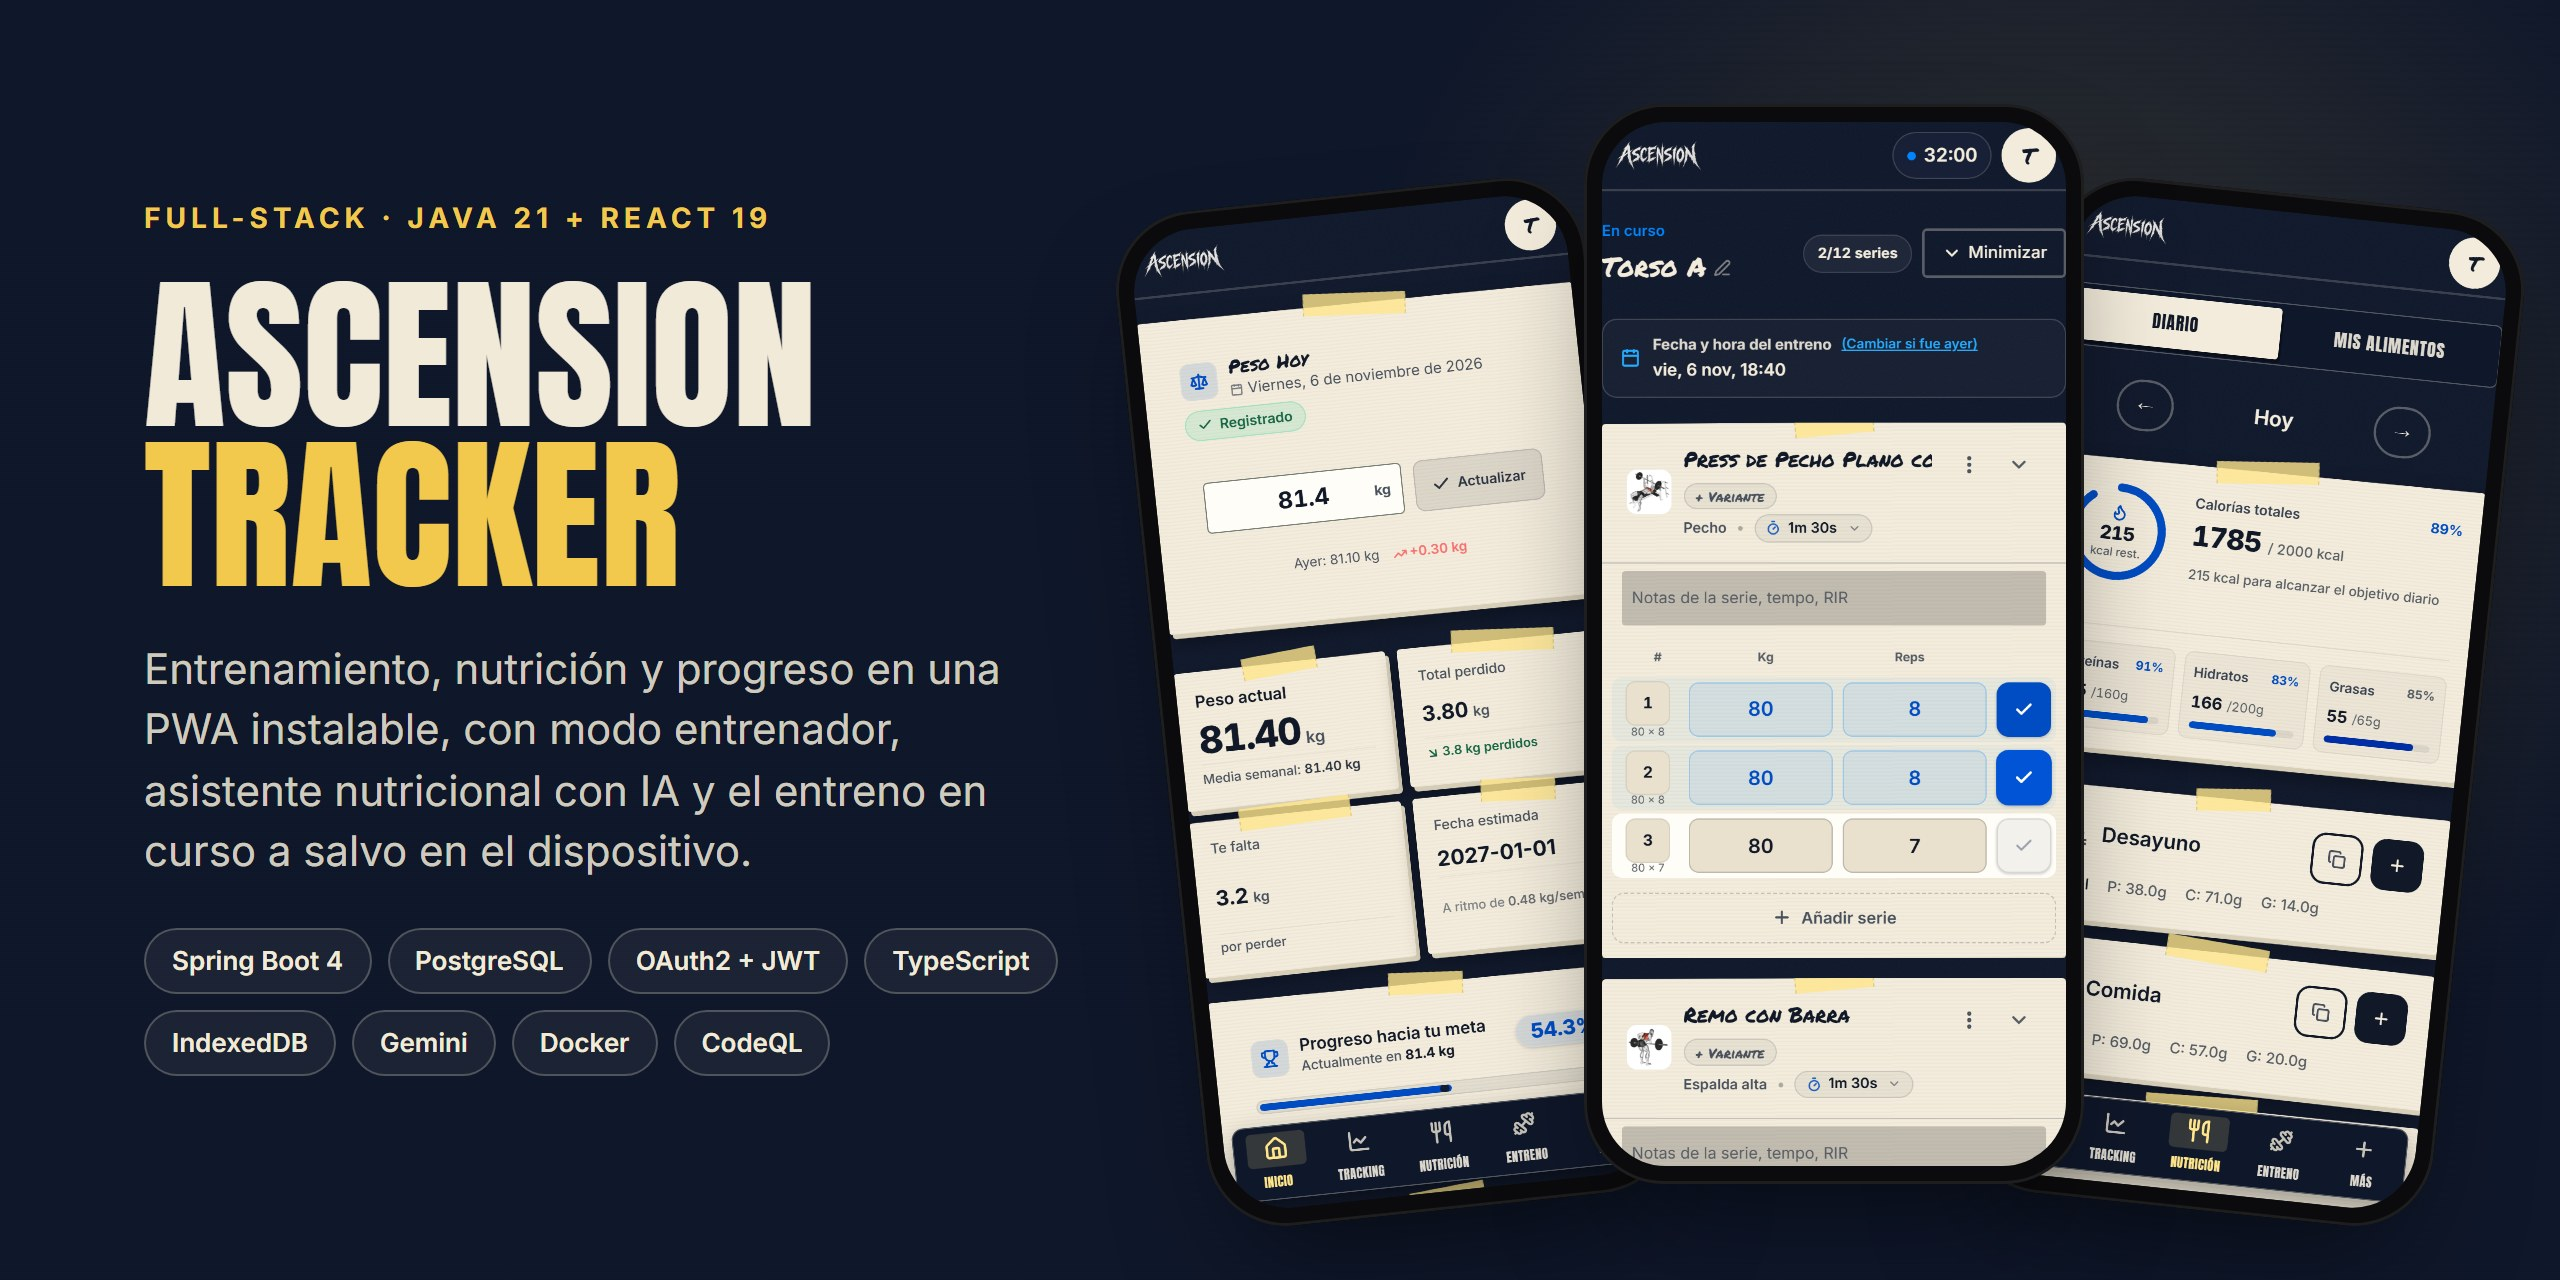
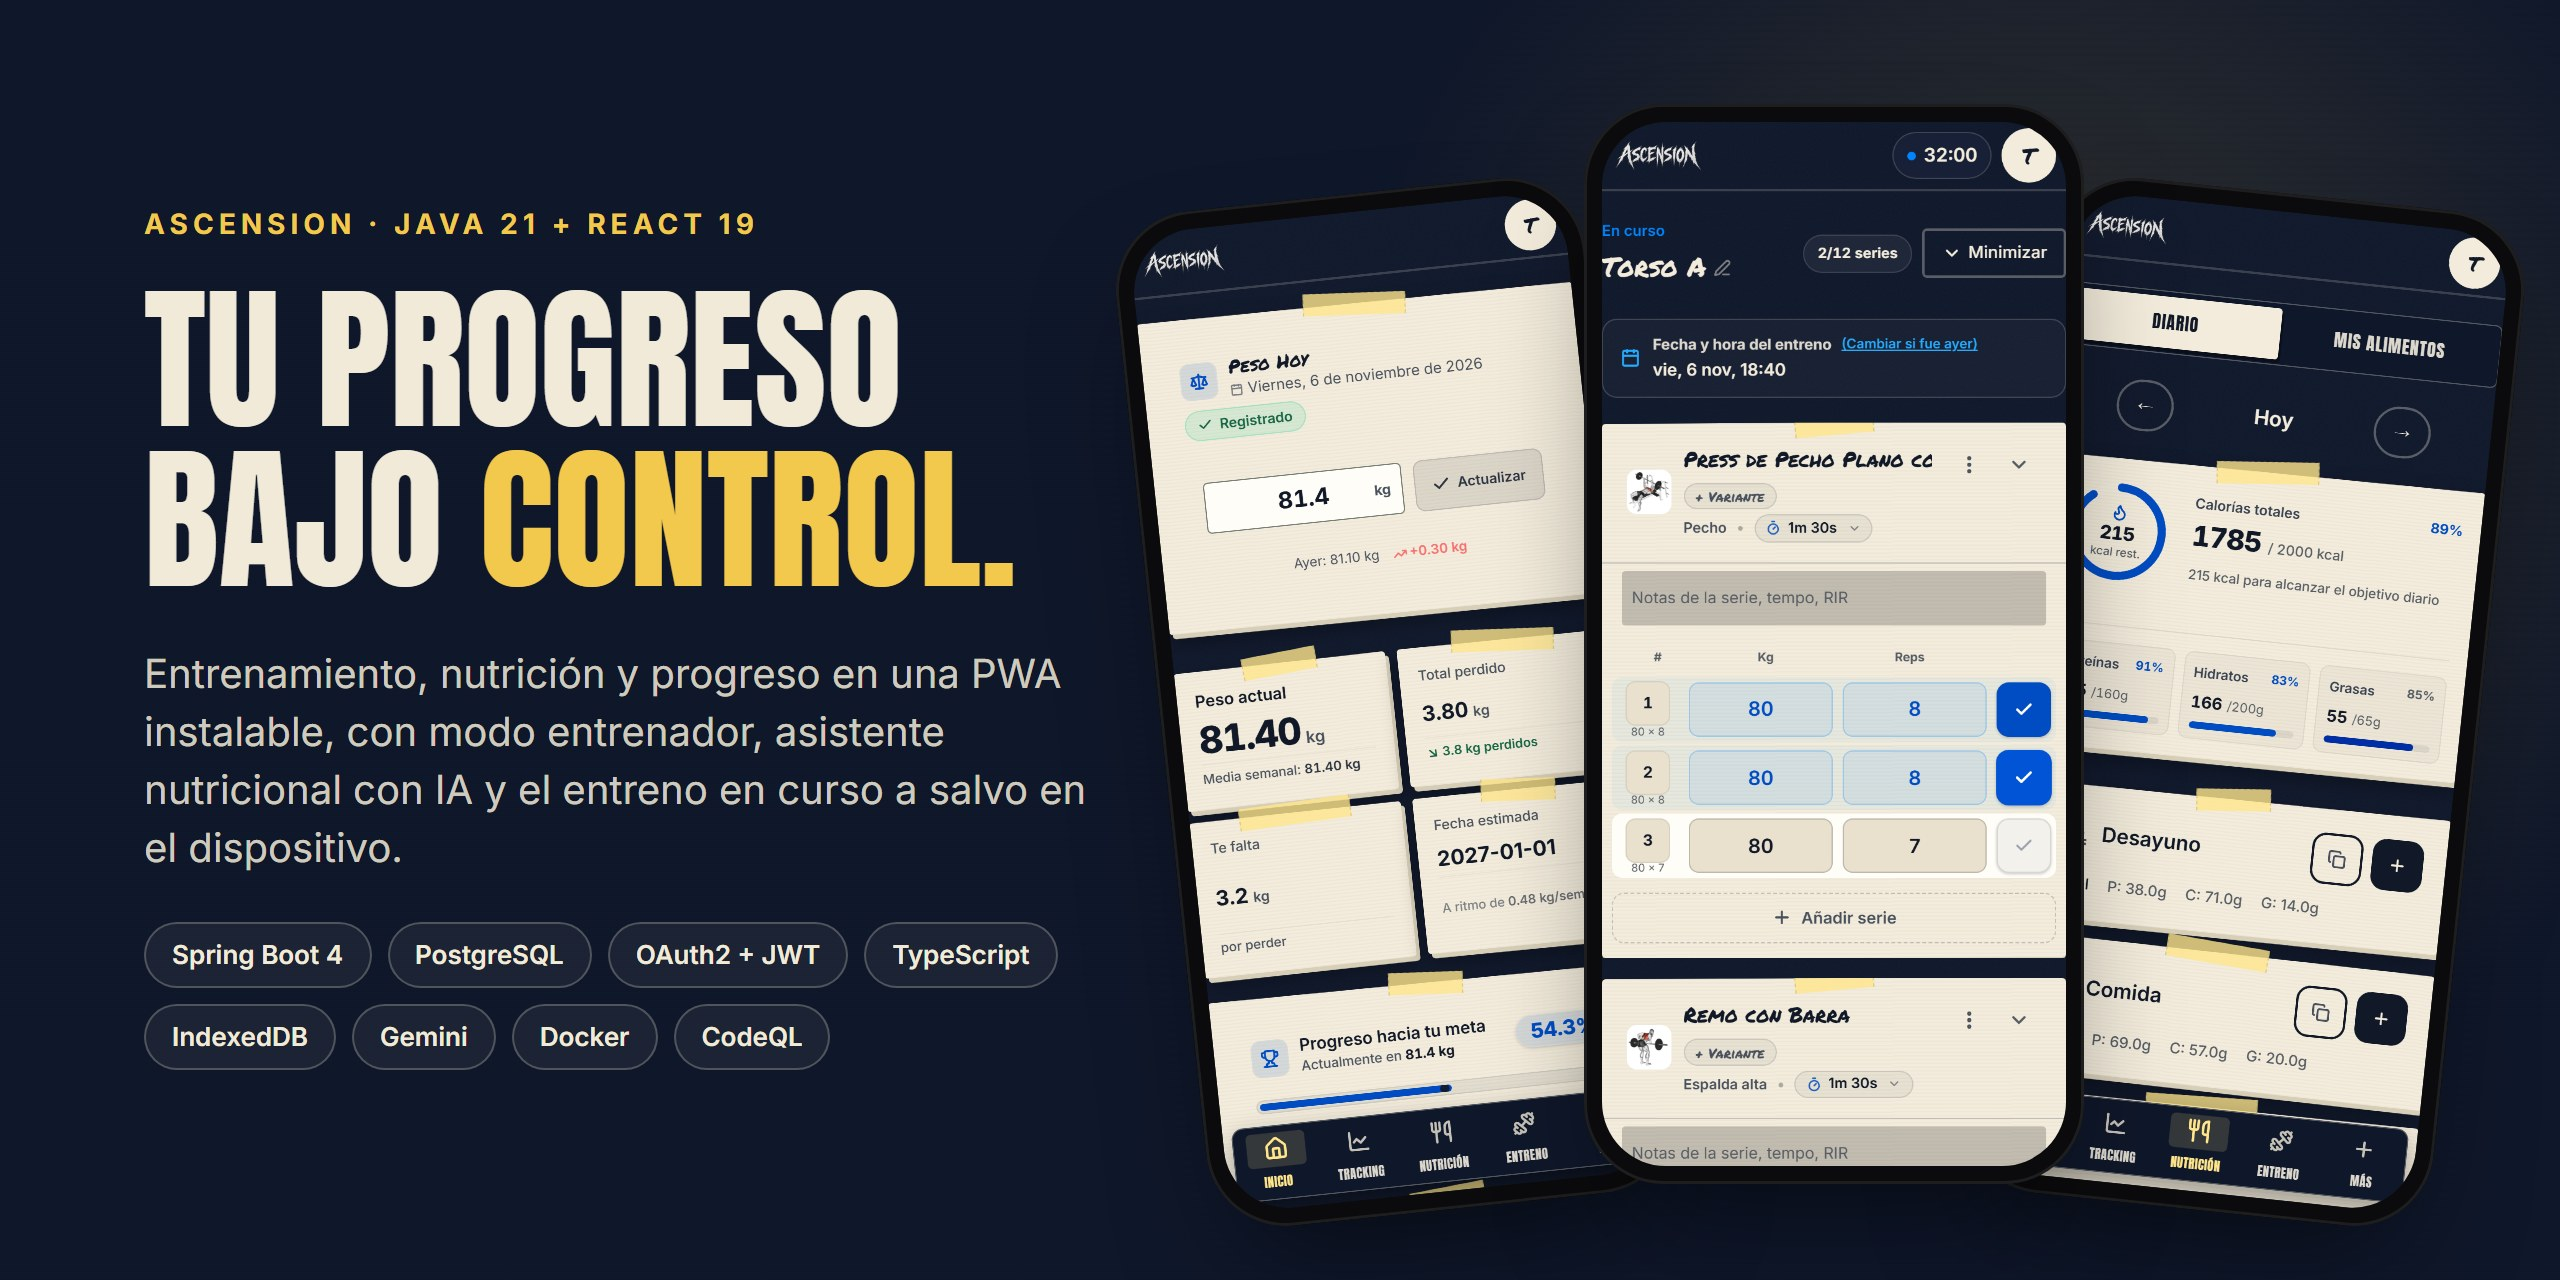
docs: lema de la app en la portada del README

diff --git a/README.md b/README.md
@@ -1,6 +1,6 @@
 <div align="center">
 
-<img src="docs/screenshots/hero.jpg" alt="Ascension Tracker: capturas móviles del inicio, un entreno en curso y el diario de nutrición" width="100%">
+<img src="docs/screenshots/hero.jpg" alt="Ascension, tu progreso bajo control: capturas móviles del inicio, un entreno en curso y el diario de nutrición" width="100%">
 
 # Ascension Tracker
 
